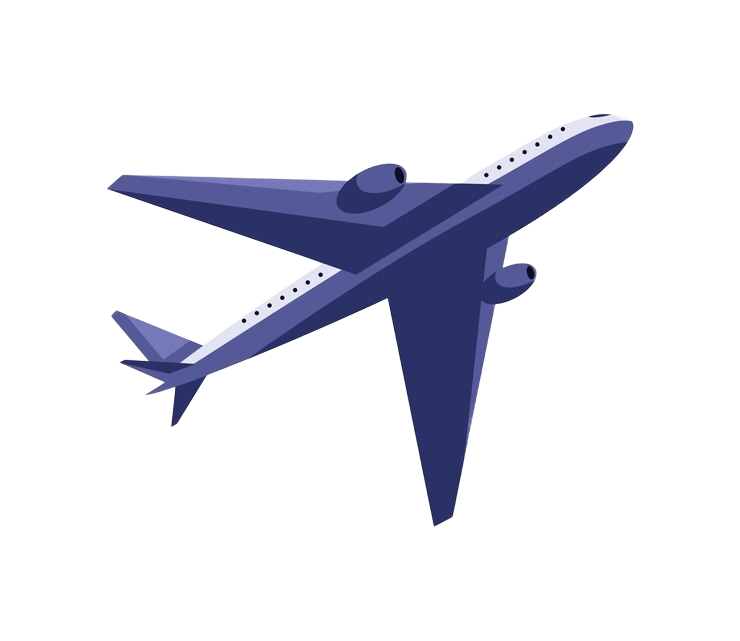
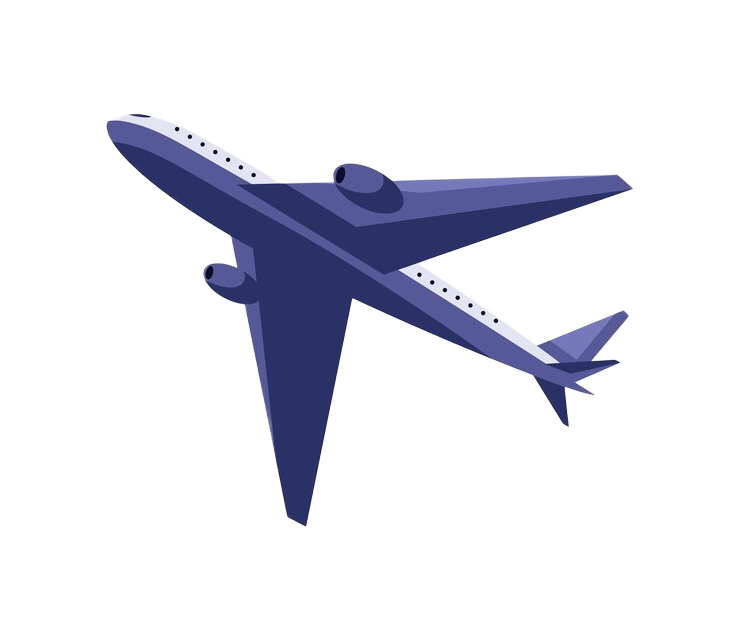
minor change

Changed region(s): [[0.1243, 0.156, 0.8703, 0.8112]]

diff --git a/src/pages/Dashboard/Dashboard.jsx b/src/pages/Dashboard/Dashboard.jsx
@@ -3,7 +3,6 @@ import FlightDetails from "../../components/FlightDetails/FlightDetails"; // Fli
 import Accommodation from "../../components/Accommodation/Accommodation"; // Hotel/accommodation info
 import Activities from "../../components/Activities/Activities"; // Planned activities list
 import BottomNav from "../../components/BottomNav/BottomNav"; // Bottom navigation bar
-import StatusBar from "../../components/StatusBar/StatusBar"; // iOS-style top status bar
 import { useState } from "react"; // React Hook for state
 import "./Dashboard.scss"; // Dashboard specific styles
 
@@ -21,8 +20,7 @@ function Dashboard() {
   return (
     <div className={`dashboard ${darkMode ? "dark-mode" : ""}`}>
       
-      {/*  Top StatusBar */}
-      <StatusBar />
+      
 
       {/*  Dashboard Header */}
       <header className="dashboard__header">

diff --git a/src/pages/Onboarding/Onboarding.jsx b/src/pages/Onboarding/Onboarding.jsx
@@ -2,7 +2,6 @@ import { useState } from 'react'; // Import useState hook for local state manage
 import { useNavigate } from 'react-router-dom'; // Import useNavigate hook for navigation
 import { FontAwesomeIcon } from '@fortawesome/react-fontawesome'; // Import FontAwesomeIcon component
 import { faUser, faHeart, faUsers, faUserFriends } from '@fortawesome/free-solid-svg-icons'; // Import icons
-import StatusBar from "../../components/StatusBar/StatusBar"; // import StatusBar!
 import './Onboarding.scss'; // Import onboarding styles
 
 // Onboarding Component
@@ -27,8 +26,7 @@ function Onboarding() {
 
   return (
     <div className="onboarding">
-      {/*  the StatusBar at the top */}
-      <StatusBar />
+     
 
       {/* Title and Subtitle */}
       <h2 className="title">Plan Your Journey, Your Way!</h2>

diff --git a/src/components/FlightDetails/FlightDetails.scss b/src/components/FlightDetails/FlightDetails.scss
@@ -80,13 +80,13 @@
 /*  Airplane Image */
 .plane-image {
   position: absolute; // Positioned inside .flight-details
-  bottom: -160px;
-  right: 200px;
+  bottom: -260px;
+  right: -245px;
   width: 600px;
   height: auto;
   opacity: 1;
   z-index: 1; // Behind the text
-  transform: rotate(230.83deg); // Rotated plane image
+
 
   img {
     width: 100%;
@@ -102,8 +102,8 @@
   }
 
   .plane-image {
-    width: 430px; // Smaller plane image
-    right: -195px;
-    bottom: -130px;
+    width: 500px; // Smaller plane image
+    right: -205px;
+    bottom: -220px;
   }
 }
